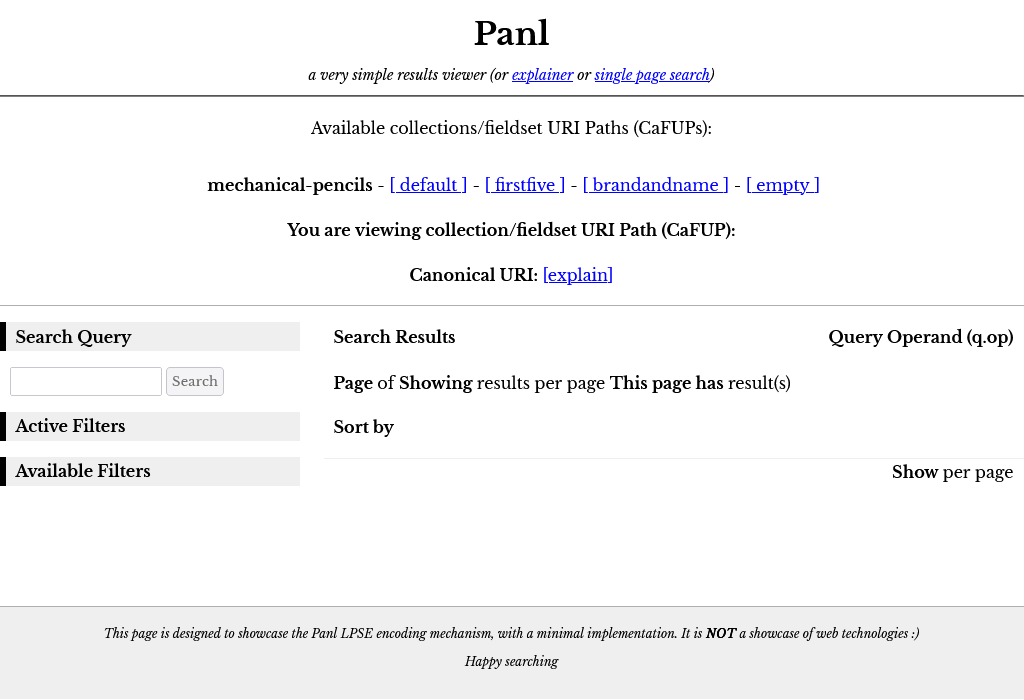
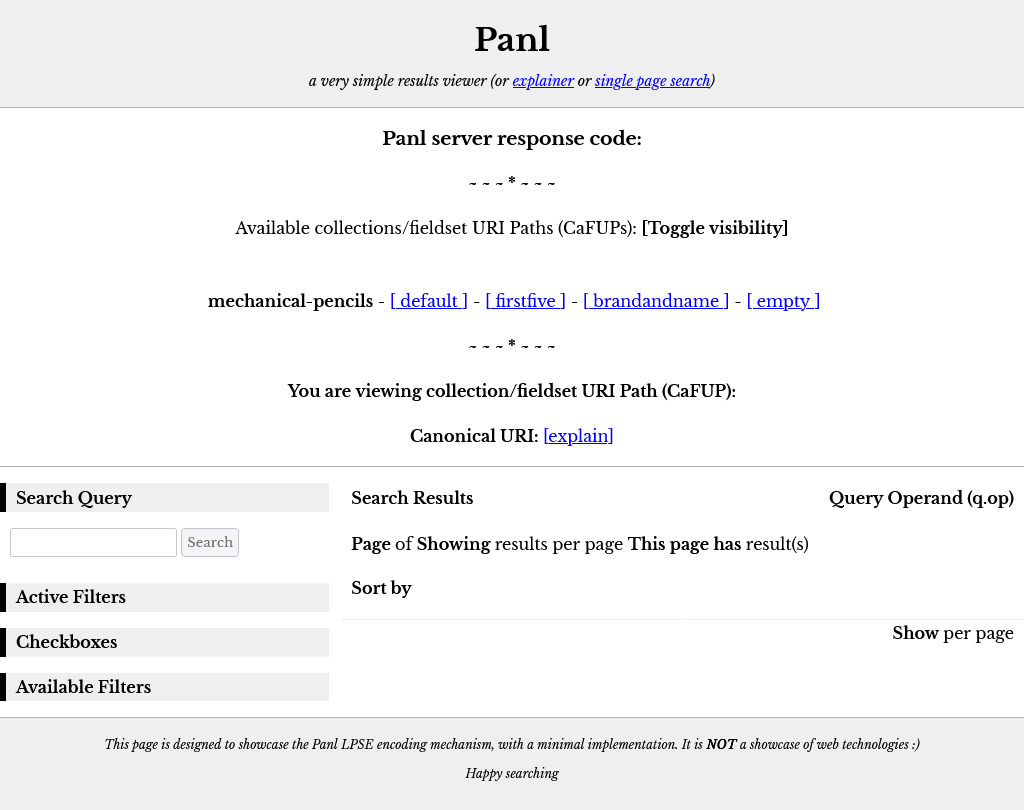
Updated 'extra' JSON Object to the active filters as well.  Updated in-built viewer web app with colour swatches and other formatting options.

diff --git a/src/main/resources/webapp/static/panl-viewer.js b/src/main/resources/webapp/static/panl-viewer.js
@@ -395,9 +395,9 @@ function addActiveFilters(activeObject, removeUri) {
 		active.append("<li><a href=\"" + panlResultsViewerUrl +
 				$("#collection").text() +
 				activeObject.query.remove_uri +
-				"\"><img class=\"remove\" src=\"/webapp/static/remove.png\" title=\"Remove this facet\"></a>&nbsp;" +
+				"\"><img class=\"remove\" src=\"/webapp/static/remove.png\" title=\"Remove this facet\">&nbsp;" +
 				activeObject.query.value +
-				"</li><li><hr /></li>");
+				"</a></li><li><hr /></li>");
 	}
 
 	// now for the facets
@@ -464,7 +464,8 @@ function addActiveFacets(facets) {
 					$("#collection").text() +
 					facet.remove_uri +
 					"\"><img class=\"remove\" src=\"/webapp/static/remove.png\" title=\"Remove this facet\"/>" +
-					decodePanl(facet.encoded) +
+					(facet.extra !== undefined && facet.extra.swatch === true ? "<img class='add' src='/webapp/static/swatches/" + facet.value + ".png'/>": "") +
+					(facet.extra !== undefined && facet.extra.short_value === true ? facet.value : decodePanl(facet.encoded)) +
 					"</a></li>");
 
 			if (facet.is_boolean_facet) {
@@ -819,8 +820,16 @@ function generateFacetHTML(facet) {
 				facet.uris.before +
 				((facet.value_separator !== undefined) ? value.encoded_multi : value.encoded) +
 				facet.uris.after +
-				"\"><img class=\"add\" src=\"/webapp/static/add.png\" title=\"Add facet\">" +
-				(facet.is_multivalue && value.encoded_multi !== undefined ? decodePanl(value.encoded_multi) : decodePanl(value.encoded)) +"</a>";
+				"\"><img class=\"add\" src=\"/webapp/static/add.png\" title=\"Add facet\"/>" +
+				(facet.extra !== undefined && facet.extra.swatch === true ? "<img class='add' src='/webapp/static/swatches/" + value.value + ".png'/>": "") +
+				(
+						facet.extra !== undefined && facet.extra.short_value === true ?
+								value.value : (
+										facet.is_multivalue && value.encoded_multi !== undefined ?
+												decodePanl(value.encoded_multi) :
+												decodePanl(value.encoded)
+								)
+				) + "</a>";
 
 		if (!facet.is_or_facet) {
 			innerUl += "&nbsp;(" + value.count + ")";

diff --git a/src/main/java/com/synapticloop/panl/server/handler/processor/ActiveProcessor.java b/src/main/java/com/synapticloop/panl/server/handler/processor/ActiveProcessor.java
@@ -37,6 +37,7 @@ import org.json.JSONObject;
 
 import java.util.*;
 
+import static com.synapticloop.panl.server.handler.fielderiser.field.BaseField.JSON_KEY_EXTRA;
 import static com.synapticloop.panl.server.handler.fielderiser.field.BaseField.JSON_KEY_IS_MULTIVALUE;
 
 /**
@@ -159,6 +160,10 @@ public class ActiveProcessor extends Processor {
 				removeObject.put(JSON_KEY_FACET_NAME, collectionProperties.getSolrFieldNameFromLpseCode(lpseCode));
 				removeObject.put(JSON_KEY_NAME, collectionProperties.getPanlNameFromPanlCode(lpseCode));
 				removeObject.put(JSON_KEY_ENCODED, lpseField.getEncodedPanlValue(lpseToken));
+
+				// add in the 'extra' JSON object
+				removeObject.put(JSON_KEY_EXTRA, lpseField.getExtraJSONObject());
+
 			}
 
 

diff --git a/README.md b/README.md
@@ -933,84 +933,6 @@ number.
 
 [See all releases](https://github.com/synapticloop/panl/releases/)
 
-# Additional Functionality In The Pipeline (possibly :)
-
-1. Additional support for Solr field types (Low priority)
-   - Some will be implemented, some will probably be ignored (anything
-       geospatial is probably not going to be included).
-1. Hierarchical facets based on value (Low priority)
-   - Being able to only show facets if another facet has been selected with a
-       specific value. This is probably not the best feature to include as it
-       ties the configuration with the data values, which may change over time.
-1. Facet value replacement (Low priority)
-   - Being able to replace values for specific values of any facet, although
-       this feature would tie the dataset and the Panl configuration together
-       more tightly than I would like. This will probably be a simple lookup
-       table for word replacement, however would also need to be parsed on the
-       way out of the Solr results as well.
-1. 'More Like This' functionality (Medium priority)
-   - The ability to return 'more like this' results on a certain field, or
-       FieldSets.
-1. DATE Range facet update (Medium priority)
-   - As an extension to internationalisation, the DATE Range facet could do
-       with an update to ensure that the SEO URL is better suited to
-       international uses. For example, this facet will respond to
-       `<range_identifier><value><range_type>` - e.g. 'previous 30 days' however
-       for other languages this is not the most suitable - e.g. in French it
-       might be '30 jours précédents' as in
-       `<value><range_type><range_identifier>`.
-1. Panl configuration editor (Low priority)
-   - A GUI to edit (and validate) the Panl configuration files making it
-       easier for a developer to get the configuration correct.
-1. Arbitrary Solr query addition (Low priority)
-   - Being able to add arbitrary Solr query params to individual collections -
-       there is some Solr functionality which does not require any configuration
-       parameters to be surfaced through the Panl server.
-1. Arbitrary DATE Ranges  (Low priority)
-   - Being able to have a way of having arbitrary ranges - e.g. from 3 to 6
-       months, or 3 to 6 months before - this almost ties in with the DATE Range
-       facet update element.
-1. Update command line help text (Low priority)
-   - Currently, the full help is displayed, which should only be done if no
-       command is given. If a command is given, then only the help for that
-       command should be printed out.
-1. Multiple lookaheads based on query fields (Low priority)
-   - This has a dependency on the 'Specific Solr field search query options'
-       and would allow a lookahead to work only on specific fields. Although
-       this is probably better as database driven…
-1. JSON configuration file (Low priority)
-    - Change the panl.properties file to be JSON based, this makes the parsing
-       a little more difficult, but also easier.
-    - Step one would be to generate the properties files in memory from the
-       JSON configuration, then completely replace them.
-    - Whilst 
-    - there are some niceties with JSON files, there are also some parts 
-      which make it worse (especially around commenting).
-1. Cached OR Facet Values (Medium Priority)
-     - Where the user wants to display an OR facet, and also wants to display 
-       the original counts (which will display as zero if any of the OR facets 
-       are displayed)
-1. Panl generator - attempt to keep existing field LPSE codes (Low Priority)
-     - For any LPSE codes which are randomly assigned by the generator, keep a 
-       lookup map of the codes and attempt to keep this assignment on 
-       re-generation.
-1. Update the Explainer (Low Priority)
-   - The explainer has languished and only returns simple lists of strings 
-     this should return JSON and be able to be inspected.
-1. DATE Range and RANGE value replacement (Low Priority)
-   -  For both of the range facets, it would be nice to be able to configure to 
-      replace the URL with a Panl query, for example: The DATE Range Facet could
-      have a replacement of 'Coming Soon' which would be translate to 
-      'Next 3 months' and the RANGE Facet could have a replacement of 
-      'Inexpensive' to translate to 'From 5 to 10 dollars'
-1. Add in allowable num per page options (Low Priority)
-    - The in-built view web app hard codes the number of results per page at 
-      the values of 3, 5, and 10.  This could be configurable through a 
-      property to allow the UI to be automatically generated.
-    - This would increase the payload size of the response marginally. Still 
-      yet to determine whether this is server configuration, or collection - 
-      probably server level with collection level override.
-
 
 # End Plate 
 
